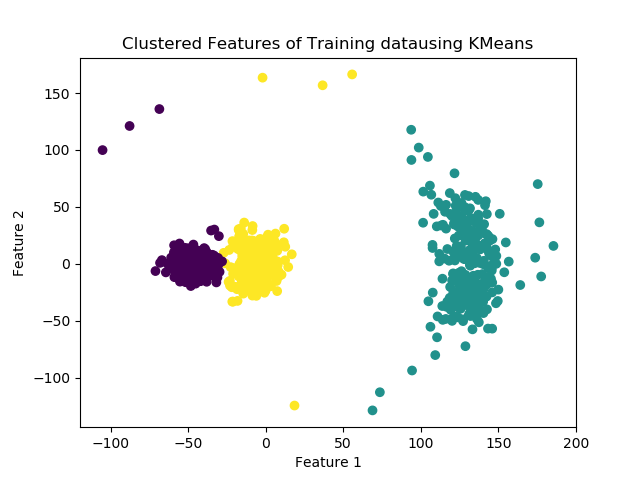
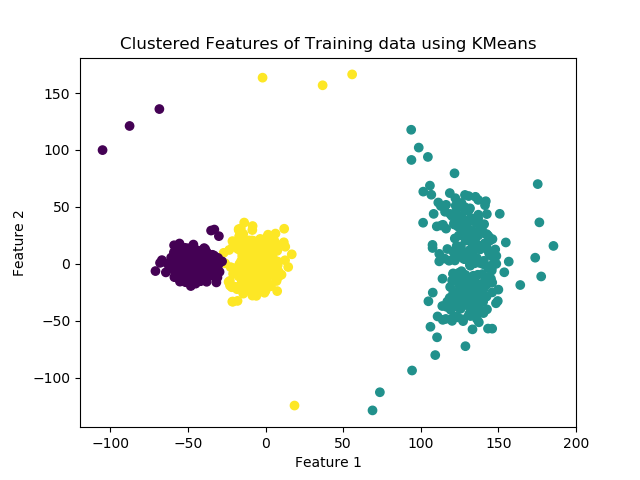
Added docstrings and tests

Changed region(s): [[0.1875, 0.0625, 0.8438, 0.125]]

diff --git a/Trial2.py b/Trial2.py
@@ -206,7 +206,7 @@ def PCA_analysis(AP):
 
     **Parameters**
 
-        APs: *list, float*
+        AP: *list, float*
             Voltage values of action potential, or peaks
 
     **Returns**
@@ -225,8 +225,18 @@ def PCA_analysis(AP):
 
 def cluster_Kmeans(data):
     '''
-    Clustering based on KMeans
+    Clusters data based on KMeans algorithm
+
+    ***Parameters***
+        data : output matrix of PCA analysis size r x 2 
+               data contains extracted features
+
+    ***Returns***
+
+        color_indices(array): consists of 0, 1, 2
+            depending on which cluster it is assigned to
     '''
+    # each cluster represent 1 neuron
     # using KMeans function to identify clusters
     CLUSTER = KMeans(n_clusters=3).fit(data)
 
@@ -240,9 +250,25 @@ def cluster_Kmeans(data):
 
 def cluster_assign(train_PCA, test_PCA, test_time, index, fs):
     '''
-    Clusters spikes in test data to any of the three neurons
+    Assigns spikes in test data to any of the three neurons
     3 clusters - 3 neurons
     Based on k nearest neighbours algorithm
+    
+    ***Parameters***
+        train_PCA : r x 2 matrix containing 
+                     extracted features of the training data
+        test_PCA :  r x 2 matrix containing 
+                     extracted features of the test data
+        test_time : time distribution array for test data
+        index : color indices array output of KMeans fuction
+                for train data
+        fs(int) : sampling frequency
+
+    ***Returns***
+        Neuron_1(array): neuronal spike data for neuron 1
+        Neuron_2(array): neuronal spike data for neuron 2
+        Neuron_3(array): neuronal spike data for neuron 3
+
     '''
     # considers 10 nearest neighbours
     k = 11
@@ -289,6 +315,7 @@ def cluster_assign(train_PCA, test_PCA, test_time, index, fs):
         except statistics.StatisticsError:
             # error occurs when there is 2 mode values
             # code to calculate mode
+            # uses statistics.mode() otherwise to increase speed
             c_0 = 0
             c_1 = 0
             c_2 = 0
@@ -308,6 +335,7 @@ def cluster_assign(train_PCA, test_PCA, test_time, index, fs):
             # getting index of the highest number in c
             check = np.argpartition(c, -1)[-1:]
 
+        # checking which cluster it belongs to
         if check == 0:
             neuron_1[dur] = 1
             dur = dur + refractory_pd
@@ -380,7 +408,7 @@ if __name__ == "__main__":
 
     fig = plt.figure()
     plt.scatter(data_1, data_2, c=color_indices)
-    plt.title('Clustered Features of Training datausing KMeans')
+    plt.title('Clustered Features of Training data using KMeans')
     plt.xlabel('Feature 1')
     plt.ylabel('Feature 2')
     fig.savefig('Clustered Features Train_data.png')
@@ -460,3 +488,5 @@ if __name__ == "__main__":
     print('neuron_1.png')
     print('neuron_2.png')
     print('neuron_3.png')
+
+    plt.show()

diff --git a/tests.py b/tests.py
@@ -1,0 +1,38 @@
+import unittest
+import Trial2
+import numpy as np
+'''
+FINAL PROJECT
+
+Molly Accord
+Sreelakshmi Sunil
+
+'''
+'''
+This file contains tests for some of the functions in Lazor.py
+'''
+
+class TestCases(unittest.TestCase):
+
+    '''
+    Performs Unit test on various functions in Laser class
+    '''
+
+    def PCA_analysis_test(self):
+        '''
+        Tests PCA_analysis_test function
+        '''
+        temp = [[1,2,4,5],[4,5,6,7],[5,6,7,8]]
+        # the features size should be rx2
+        # where are is no of rowes of passed matrix
+        b = len(temp)
+        a_1 = len(PCA_analysis(self,temp)[0]); b_1 =len(PCA_analysis(self,temp))
+        self.assertEqual((a_1, b), (2, b_1))
+
+
+
+
+
+if __name__ == '__main__':
+
+    unittest.main()
